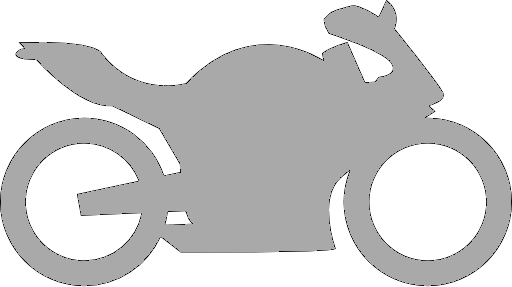
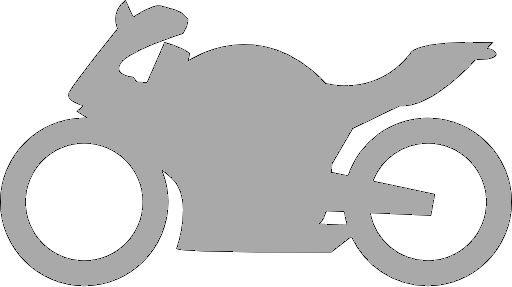
Mejoras graficas a encabezado simulaciones

Changed region(s): [[0.0312, 0.0, 0.9688, 0.892], [0.7188, 0.6132, 0.875, 0.7526], [0.125, 0.6132, 0.2812, 0.7526]]

diff --git a/angular-udemy/fernando_herrera/cotizadorAngular/src/app/components/products/vehiculos/motos/components/simulacion-motos/simulacion-motos.component.html b/angular-udemy/fernando_herrera/cotizadorAngular/src/app/components/products/vehiculos/motos/components/simulacion-motos/simulacion-motos.component.html
@@ -5,10 +5,15 @@
     
             <div class="ml-3">
                 <p-header>
-                    <div class="tracking-in-contract">
-                        <h1>Simular Pesados</h1>
-                        <i class="fa fa-home float-left m-1"></i>
-                        <h6>Inicio/Simular Motos</h6>
+                    <div class="d-flex">
+                        <div class="tracking-in-contract">
+                            <h1>Simular Motos</h1>
+                            <i class="fa fa-home float-left m-1"></i>
+                            <h6>Inicio/Simular Motos</h6>
+                        </div>
+                        <div class="pull-left ml-4">
+                            <img src="assets/img/switch_motos/motos_ON_.png" height="120px" height="70px" alt="">
+                        </div>
                     </div>
                 </p-header>
             </div>
@@ -31,8 +36,8 @@
                     Buscar Documento
                 </p-header>
                 <!-- (onHide)="emitOnHide()" -->
-                    <!-- <app-buscar-documentos>
-                    </app-buscar-documentos> -->
+                    <app-buscar-documentos>
+                    </app-buscar-documentos>
             </p-dialog>
     
             <!-- Contenedor datos principales -->
@@ -64,7 +69,7 @@
     
                                 <p-header>
                                     <span class="ui-panel-title">
-                                        <i class="fa fa-truck-moving"></i>
+                                        <i class="fa fa-motorcycle"></i>
                                         Datos del Vehículo
                                     </span>
                                 </p-header>
@@ -84,9 +89,9 @@
                                     </div>
 
                                     <div class="col-xs-12 col-sm-6 col-md-4 col-lg-3">
-                                        <label for="tipoVehiculo" class="input-label">Tipo *</label>
-                                        <p-dropdown [options]="TIPOS_VEHICULOS_PESADOS" name="tipoVehiculo" 
-                                            [(ngModel)]="tipoVehiculoSelected" 
+                                        <label for="clasificacion" class="input-label">Clasificación *</label>
+                                        <p-dropdown [options]="CLASIFICACIONES_MOTOS" name="clasificacion" 
+                                            [(ngModel)]="clasificacionSelected" 
                                             placeholder="Selecione" optionLabel="label"></p-dropdown>
                                     </div>
                                 </div>
@@ -98,6 +103,7 @@
                                             [(ngModel)]="anioSelected" 
                                             placeholder="Selecione" optionLabel="label"></p-dropdown>
                                     </div>
+    
                                     <div class="col-xs-12 col-sm-6 col-md-4 col-lg-3">
                                         <label for="marca" class="input-label">Marca *</label>
                                         <p-dropdown [options]="MARCAS" name="marca" 
@@ -106,32 +112,40 @@
                                             [(ngModel)]="marcaSelected" 
                                             placeholder="Selecione" optionLabel="label"></p-dropdown>
                                     </div>
+    
                                     <div class="col-xs-12 col-sm-6 col-md-4 col-lg-3">
-                                        <label for="modelo" class="input-label">Monto Asegurado UF *</label>
-                                        <input pInputText name="montoAseguradoUF" type="text" />
+                                        <label for="modelo" class="input-label">Modelo *</label>
+                                        <p-dropdown [options]="MODELOS" name="modelo" 
+                                            filter="true"
+                                            [virtualScroll]="true"
+                                            [(ngModel)]="modeloSelected" 
+                                            placeholder="Selecione" optionLabel="label"></p-dropdown>
                                     </div>
                                 </div>
-    
+
                                 <div class="row mb-3">
                                     <div class="col-xs-12 col-sm-6 col-md-4 col-lg-3">
-                                        <label for="marca" class="input-label">Uso *</label>
-                                        <p-dropdown [options]="USOS_VEHICULOS_PESADOS" name="usoVehiculo"
-                                            [(ngModel)]="usoVehiculoSelected" 
-                                            placeholder="Selecione" optionLabel="label"></p-dropdown>
-                                    </div>
-                                    <div class="col-xs-12 col-sm-6 col-md-4 col-lg-3">
-                                        <label for="subUsoVehiculo" class="input-label">Sub Uso *</label>
-                                        <p-dropdown [options]="SUB_USOS_VEHICULOS_PESADOS" name="subUsoVehiculo"
-                                            [(ngModel)]="subUsoVehiculoSelected" 
-                                            placeholder="Selecione" optionLabel="label"></p-dropdown>
-                                    </div>
-                                    <div class="col-xs-12 col-sm-6 col-md-4 col-lg-3">
-                                        <label for="companiaAnterior" class="input-label">Compañia Anterior *</label>
+                                        <label for="anio" class="input-label">Compañia Anterior *</label>
                                         <p-dropdown [options]="COMPANIAS_ANTERIORES" name="companiaAnterior" 
                                             [(ngModel)]="companiaAnteriorSelected" 
                                             filter="true" [showClear]="true"
                                             placeholder="Selecione" optionLabel="label"></p-dropdown>
                                     </div>
+    
+                                    <div class="col-xs-12 col-sm-6 col-md-4 col-lg-3">
+                                        <label for="usoMoto" class="input-label">Uso *</label>
+                                        <p-dropdown [options]="USOS_MOTOS" name="usoMoto"
+                                            [(ngModel)]="usoMotoSelected" 
+                                            placeholder="Selecione" optionLabel="label"></p-dropdown>
+                                    </div>
+
+                                    <div class="col-xs-12 col-sm-6 col-md-4 col-lg-3">
+                                        <label for="cilindradaMoto" class="input-label">Cilindrada *</label>
+                                        <p-dropdown [options]="CILINDRADAS_MOTOS" name="cilindradaMoto"
+                                            [(ngModel)]="cilindradaMotoSelected" 
+                                            placeholder="Selecione" optionLabel="label"></p-dropdown>
+                                    </div>
+    
                                 </div>
                             </div>
     

diff --git a/angular-udemy/fernando_herrera/cotizadorAngular/src/app/components/products/vehiculos/motos/components/simulacion-motos/simulacion-motos.component.ts b/angular-udemy/fernando_herrera/cotizadorAngular/src/app/components/products/vehiculos/motos/components/simulacion-motos/simulacion-motos.component.ts
@@ -40,15 +40,15 @@ export class SimulacionMotosComponent implements OnInit {
   descuentoRecargoSelected: any;
   rcEnExcesoSelected: any;
   companiaAnteriorSelected: any;
-  usoVehiculoSelected: any;
+  usoMotoSelected: any;
   subUsoVehiculoSelected: any;
   tallerSelected: any;
   asistenciaSelected: any;
   rcsEnExcesoSelected: any;
   tipoOperacionSelected: any;
 
-  tipoVehiculoSelected: any;
-  clausulasAdicionalesSelected: any[];
+  clasificacionSelected: any;
+  cilindradaMotoSelected: any;
 
   ESTADOS_VEHICULO: any[];
   ANIOS: any[];
@@ -65,6 +65,10 @@ export class SimulacionMotosComponent implements OnInit {
   TIPOS_VEHICULOS_PESADOS: any[];
   SUB_USOS_VEHICULOS_PESADOS: any[];
   CLAUSULAS_ADICIONALES_PESADOS: any[];
+  CILINDRADAS_MOTOS: any[];
+
+  CLASIFICACIONES_MOTOS: any[];
+  USOS_MOTOS: any;
     
   _tarificado: boolean = false;
   simulaciones: any[];
@@ -89,18 +93,18 @@ export class SimulacionMotosComponent implements OnInit {
     this.MARCAS = this.comboFeedService.getMarcas();
     this.MODELOS = this.comboFeedService.getModelos();
     this.COMPANIAS_ANTERIORES = this.comboFeedService.getCompaniasAnteriores();
-    this.USOS_VEHICULOS_PESADOS = this.comboFeedService.getUsosVehiculosPesados();
-    this.SUB_USOS_VEHICULOS_PESADOS = this.comboFeedService.getSubUsosCamion();
+    this.USOS_MOTOS = this.comboFeedService.getUsosMotos();
+    
     this.COMUNAS = this.comboFeedService.getComunas();
     this.TALLERES = this.comboFeedService.getTalleres();;
     this.ASISTENCIAS = this.comboFeedService.getAsistencias();
-    this.RCS_EN_EXCESO = this.comboFeedService.getRcsEnExceso();
+    
     this.ESTADOS_VEHICULO = this.comboFeedService.getEstadosVehiculo();
     this.TIPOS_DOCUMENTO = this.comboFeedService.getTiposDocumento();
     this.DESCUENTO_RECARGO = this.comboFeedService.getOpcionesDescuentoRecargo();
 
-    this.TIPOS_VEHICULOS_PESADOS = this.comboFeedService.getTiposVehiculosPesados();
-    this.CLAUSULAS_ADICIONALES_PESADOS = this.comboFeedService.getClausulasAdicionalesPesados();
+    this.CLASIFICACIONES_MOTOS = this.comboFeedService.getClasificacionesMotos();
+    this.CILINDRADAS_MOTOS = this.comboFeedService.getCilindradasMotos();
 
     //Inicializacion de deducibles y planes para tarificacion
     this.deduciblesExistentes = [

diff --git a/angular-udemy/fernando_herrera/cotizadorAngular/src/app/components/products/vehiculos/pesados/components/simulacion-pesados/simulacion-pesados.component.html b/angular-udemy/fernando_herrera/cotizadorAngular/src/app/components/products/vehiculos/pesados/components/simulacion-pesados/simulacion-pesados.component.html
@@ -5,10 +5,15 @@
     
             <div class="ml-3">
                 <p-header>
-                    <div class="tracking-in-contract">
-                        <h1>Simular Pesados</h1>
-                        <i class="fa fa-home float-left m-1"></i>
-                        <h6>Inicio/Simular Pesados</h6>
+                    <div class="d-flex">
+                        <div class="tracking-in-contract">
+                            <h1>Simular Pesados</h1>
+                            <i class="fa fa-home float-left m-1"></i>
+                            <h6>Inicio/Simular Pesados</h6>
+                        </div>
+                        <div class="pull-left ml-4">
+                            <img src="assets/img/switch_pesados/truck_outline.png" height="120px" height="70px" alt="">
+                        </div>
                     </div>
                 </p-header>
             </div>
@@ -31,8 +36,8 @@
                     Buscar Documento
                 </p-header>
                 <!-- (onHide)="emitOnHide()" -->
-                    <!-- <app-buscar-documentos>
-                    </app-buscar-documentos> -->
+                    <app-buscar-documentos>
+                    </app-buscar-documentos>
             </p-dialog>
     
             <!-- Contenedor datos principales -->

diff --git a/angular-udemy/fernando_herrera/cotizadorAngular/src/app/components/products/vehiculos/livianos/livianos.module.ts b/angular-udemy/fernando_herrera/cotizadorAngular/src/app/components/products/vehiculos/livianos/livianos.module.ts
@@ -5,7 +5,6 @@ import { SimulacionLivianosComponent } from './components/simulacion-livianos/si
 import { PropuestaLivianosComponent } from './components/propuesta-livianos/propuesta-livianos.component';
 import { EmisionLivianosComponent } from './components/emision-livianos/emision-livianos.component';
 import { PropuestaGeneradaLivianosComponent } from './components/propuesta-livianos/propuesta-generada-livianos/propuesta-generada-livianos.component';
-import { BuscarDocumentosLivianosComponent } from '../../../shared/buscar-documentos-livianos/buscar-documentos.component';
 import { PolizaEmitidaLivianosComponent } from './components/emision-livianos/poliza-emitida-livianos/poliza-emitida-livianos.component';
 
 @NgModule({
@@ -13,8 +12,7 @@ import { PolizaEmitidaLivianosComponent } from './components/emision-livianos/po
     SimulacionLivianosComponent, 
     PropuestaLivianosComponent, 
     EmisionLivianosComponent, 
-    PropuestaGeneradaLivianosComponent, 
-    BuscarDocumentosLivianosComponent,
+    PropuestaGeneradaLivianosComponent,
     PolizaEmitidaLivianosComponent
   ],
   imports: [

diff --git a/angular-udemy/fernando_herrera/cotizadorAngular/src/app/components/shared/modules/shared-common.module.ts b/angular-udemy/fernando_herrera/cotizadorAngular/src/app/components/shared/modules/shared-common.module.ts
@@ -20,12 +20,15 @@ import { MultiSelectModule } from 'primeng/multiselect';
 import { SeleccionTarifasComponent } from '../seleccion-tarifas-livianos/seleccion-tarifas.component';
 import { GrillaCotizacionesComponent } from '../grilla-cotizaciones/grilla-cotizaciones.component';
 import { CeldaCotizacionComponent } from '../grilla-cotizaciones/celda-cotizacion/celda-cotizacion.component';
+import { BuscarDocumentosComponent } from 'src/app/components/shared/buscar-documentos/buscar-documentos.component';
+
 
 @NgModule({
   declarations: [
     SeleccionTarifasComponent,
     GrillaCotizacionesComponent,
-    CeldaCotizacionComponent],
+    CeldaCotizacionComponent,
+    BuscarDocumentosComponent],
   imports: [
     BrowserModule,
     CommonModule,
@@ -71,7 +74,8 @@ import { CeldaCotizacionComponent } from '../grilla-cotizaciones/celda-cotizacio
     MultiSelectModule,
     SeleccionTarifasComponent,
     GrillaCotizacionesComponent,
-    CeldaCotizacionComponent
+    CeldaCotizacionComponent,
+    BuscarDocumentosComponent
   ],
   providers: [{provide: LOCALE_ID, useValue: "es-Es"}],
 })

diff --git a/angular-udemy/fernando_herrera/cotizadorAngular/src/app/components/products/vehiculos/livianos/components/simulacion-livianos/simulacion-livianos.component.html b/angular-udemy/fernando_herrera/cotizadorAngular/src/app/components/products/vehiculos/livianos/components/simulacion-livianos/simulacion-livianos.component.html
@@ -5,10 +5,15 @@
 
         <div class="ml-3">
             <p-header>
-                <div class="tracking-in-contract">
-                    <h1>Simular Livianos</h1>
-                    <i class="fa fa-home float-left m-1"></i>
-                    <h6>Inicio/Simular Livianos</h6>
+                <div class="d-flex">
+                    <div class="tracking-in-contract">
+                        <h1>Simular Livianos</h1>
+                        <i class="fa fa-home float-left m-1"></i>
+                        <h6>Inicio/Simular Livianos</h6>
+                    </div>
+                    <div class="pull-left ml-4">
+                        <img src="assets/img/switch_livianos/livianos_ON_.png" height="120px" height="70px" alt="">
+                    </div>
                 </div>
             </p-header>
         </div>

diff --git a/angular-udemy/fernando_herrera/cotizadorAngular/src/app/components/products/vehiculos/motos/components/simulacion-motos/simulacion-motos.component.css b/angular-udemy/fernando_herrera/cotizadorAngular/src/app/components/products/vehiculos/motos/components/simulacion-motos/simulacion-motos.component.css
@@ -1,9 +1,17 @@
 :host ::ng-deep .img_item {
     width: 60px;
-    height: 30px;
+    height: 35px;
   }
 
   :host ::ng-deep label .img_item, 
   :host ::ng-deep :checked + label .img_item {
-    background-size: 60px 30px !important;
+    background-size: 60px 35px !important;
+  }
+
+
+  .titulo {
+    background-image: url("../../../../../../../assets/img/switch_motos/motos_ON_.png");
+    background-position: top;
+    background-repeat: no-repeat;
+    background-size: 120px 70px;
   }

diff --git a/angular-udemy/fernando_herrera/cotizadorAngular/src/app/components/shared/buscar-documentos/buscar-documentos.component.ts b/angular-udemy/fernando_herrera/cotizadorAngular/src/app/components/shared/buscar-documentos/buscar-documentos.component.ts
@@ -6,7 +6,7 @@ import { ComboFeedService } from 'src/app/services/data/combofeed.service';
   templateUrl: './buscar-documentos.component.html',
   styleUrls: ['./buscar-documentos.component.css']
 })
-export class BuscarDocumentosLivianosComponent implements OnInit {
+export class BuscarDocumentosComponent implements OnInit {
 
   @Input() producto;
 

diff --git a/angular-udemy/fernando_herrera/cotizadorAngular/src/app/services/data/combofeed.service.ts b/angular-udemy/fernando_herrera/cotizadorAngular/src/app/services/data/combofeed.service.ts
@@ -401,10 +401,16 @@ export class ComboFeedService {
     ]
   }
 
-  getCilindradaMotos(): any[] {
+  getCilindradasMotos(): any[] {
     return [
       {code: "1", label: "1000"},
       {code: "2", label: "2000"}
+    ]
+  }
+
+  getUsosMotos(): any {
+    return [
+      {code: "1", label: "PARTICULAR"}
     ]
   }
 }

diff --git a/angular-udemy/fernando_herrera/cotizadorAngular/src/app/components/products/vehiculos/motos/motos.module.ts b/angular-udemy/fernando_herrera/cotizadorAngular/src/app/components/products/vehiculos/motos/motos.module.ts
@@ -3,7 +3,6 @@ import { SharedCommonModule } from 'src/app/components/shared/modules/shared-com
 import { SimulacionMotosComponent } from './components/simulacion-motos/simulacion-motos.component';
 
 
-
 @NgModule({
   declarations: [SimulacionMotosComponent],
   imports: [

diff --git a/angular-udemy/fernando_herrera/cotizadorAngular/src/app/components/products/vehiculos/pesados/pesados.module.ts b/angular-udemy/fernando_herrera/cotizadorAngular/src/app/components/products/vehiculos/pesados/pesados.module.ts
@@ -5,9 +5,7 @@ import { SimulacionPesadosComponent } from './components/simulacion-pesados/simu
 
 @NgModule({
   declarations: [
-    SimulacionPesadosComponent,
-
-
+    SimulacionPesadosComponent
   ],
   imports: [
     SharedCommonModule
